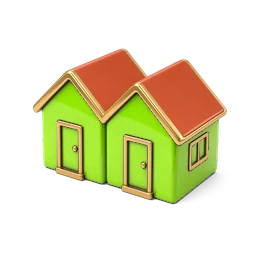
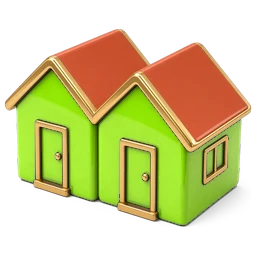
Mosaico Vila R33: falas da pequena sem refazer a conta, moradia só no mercado, voto lado a lado e ícones da meta, do aluguel e de duas cartas
Claude-Session: https://claude.ai/code/session_01WHDQMuMbetW4TJGK2hXLga

diff --git a/mosaico-vila/js/views/aluno.js b/mosaico-vila/js/views/aluno.js
@@ -12,7 +12,7 @@ export function novoLocal() { return { pub: 20, rep: 0, car: 0, lance: 0, face: 
 
 function hd(st, me) {
   const f = me?.fam ? vista(st).fams[me.fam] : null;   // R19: nas cartas dos anos 2 e 4, o caixa de antes das decisões (como a barra)
-  return `<div class="hd">${f ? iconeFamilia(f, 34, { moradia: true }) : ico("app-mosaico-vila", "m")}
+  return `<div class="hd">${f ? iconeFamilia(f, 34) : ico("app-mosaico-vila", "m")}
     <div class="grow"><b>${esc(me?.nome || "Mosaico Vila")}</b><div class="faint" style="font-size:12px">${f ? `${esc(f.nome)} · caixa ${n0(f.caixa)}` : "Mosaico Vila"}</div></div>
     ${st.ano ? `<span class="chip">Ano ${st.ano}</span>` : ""}${st.ano ? miniBarra(st) : ""}</div>`;
 }
@@ -180,7 +180,7 @@ export function renderAluno(st, id, loc) {
           ? `<button class="btn block" data-a="rolar">Pensei. Rolar o dado</button>`
           : `<div class="card" style="text-align:center"><div class="dado">${loc.face}</div><p class="muted">Você acertou o número que pensou?</p><div class="escolha"><button class="btn sec" data-a="mente" data-val="1">Acertei</button><button class="btn sec" data-a="mente" data-val="0">Não acertei</button></div></div>`);
       } else if (c.tipo === "honesto") {
-        bd = cartaCelular(c, "<b>Só você vê esta tela.</b> O banco e a praça são do jogo; os 3 pontos valem no seu placar pessoal, que ninguém mais vê. O telão mostra só o total da turma (se todos fizerem o mesmo, o total diz isso).", "mente", st);
+        bd = cartaCelular(c, "<b>Só você vê esta tela.</b> O banco e a praça são do jogo; os 3 pontos são só seus. O telão mostra só o total da turma (se todos fizerem o mesmo, o total diz isso).", "mente", st);
       } else {
         bd = `<p class="faint" style="margin:0 0 6px">Cada pessoa recebeu uma das 4 situações do telão, sorteada. <b>Não arriscar não custa nada.</b></p>` + cartaCelular(c, "<b>Só você vê esta tela.</b> A outra pessoa é do jogo. Se arriscar, você põe 2; se ela for honesta, ganha 2; se não, perde os 2. Você só descobre no fim do ano, aqui no celular.", "mente", st);
       }
@@ -189,27 +189,27 @@ export function renderAluno(st, id, loc) {
     case "pequena": {
       const c = cartaPequena(st, id);   // R28: a fala sorteada para esta pessoa ("presente em troca de" ou às claras)
       bd = st.pequena.votos[id] != null ? enviado("Resposta secreta enviada.") + palpiteFaixa(st, id, "pequena", "quantos % de quem responder vão aceitar?")
-        : cartaCelular(c, `<b>Responda sem mostrar a tela.</b> Cada resposta vale para quem respondeu; o telão mostra só totais de 5 ou mais pessoas, nunca a resposta de alguém (se todos fizerem o mesmo, o total diz isso). ${esc(c.segmento[0].toUpperCase() + c.segmento.slice(1))} é personagem do jogo; os ${GANHO_PEQUENA} pontos valem no seu placar pessoal, que só você vê.`, "pequena", st);
+        : cartaCelular(c, `<b>Responda sem mostrar a tela.</b> O telão mostra só totais, nunca a resposta de alguém (se todos fizerem o mesmo, o total diz isso). ${esc(c.segmento[0].toUpperCase() + c.segmento.slice(1))} é do jogo; os ${GANHO_PEQUENA} pontos são só seus.`, "pequena", st);
       break;
     }
     case "lances": {
       const p = st.lances?.[st.ano]?.[id];
       const palp = st.palpite?.[st.ano]?.[id];
       if (!p?.lanceEnviado && f.lotes >= tetoLotes(f)) {   // R16: a família já tem a moradia + 1 lote
-        bd = `<h2 class="row">${ico("mercado-lotes", "g")}Mercado de lotes</h2><div class="card"><p class="muted" style="margin:0">A família tem ${f.lotes === 1 ? "1 lote" : `${f.lotes} lotes`} e precisa de ${precisaLotes(f)} para morar. Cada família compra até ter a moradia + 1 lote: <b>vocês ficam de fora deste mercado</b>. O lote de vocês ainda pode render aluguel.</p></div>
+        bd = `<h2 class="row">${ico("mercado-lotes", "g")}Mercado de lotes</h2><div class="card row" style="flex-wrap:nowrap;align-items:flex-start;gap:12px">${iconeFamilia(f, 48, { moradia: true })}<p class="muted" style="margin:0">A família tem ${f.lotes === 1 ? "1 lote" : `${f.lotes} lotes`} e precisa de ${precisaLotes(f)} para morar. Cada família compra até ter a moradia + 1 lote: <b>vocês ficam de fora deste mercado</b>. O lote de vocês ainda pode render aluguel.</p></div>
           <div class="card"><b>Enquanto a turma decide: qual vai ser o lance vencedor?</b><div class="row" style="margin-top:8px">${["até 20", "21 a 40", "mais de 40"].map((v) => `<button class="btn sm ${palp === v ? "on" : "sec"} grow" data-a="palpite" data-val="${v}">${v}</button>`).join("")}</div></div>`;
         break;
       }
       bd = p?.lanceEnviado ? enviado(p.semLote ? "Enviado: não queremos lote este ano." : "Lance enviado.") + `<div class="card"><b>Enquanto a turma decide: qual vai ser o lance vencedor?</b><div class="row" style="margin-top:8px">${["até 20", "21 a 40", "mais de 40"].map((v) => `<button class="btn sm ${palp === v ? "on" : "sec"} grow" data-a="palpite" data-val="${v}">${v}</button>`).join("")}</div></div>` : `<h2 class="row">${ico("mercado-lotes", "g")}Mercado de lotes</h2><p class="muted">Lance fechado. Quanto do caixa da família (${n0(f.caixa)}) oferecer além do mínimo de ${lanceMinimo(st.ano)}? Vale a mediana da família; quem não envia conta como 0%.</p>
         <div class="card"><div class="row" style="justify-content:space-between"><b>Parte do caixa</b><b class="mono">${loc.lance}%</b></div><input type="range" min="0" max="60" step="5" value="${loc.lance}" data-in="lance" data-key="lance">${efeitoLance(st, f, loc)}</div>
-        <p class="faint">A família precisa de ${precisaLotes(f) === 1 ? "1 lote" : `${precisaLotes(f)} lotes`} para morar; tem ${f.lotes}; pode comprar até ter ${tetoLotes(f)}. ${st.regra === "prosperidade" ? "Na Prosperidade, conta metade do que vocês oferecem além do mínimo. " : ""}Quem já levou um lote oferece, no próximo, metade da porcentagem, sobre o caixa que sobrou.</p><button class="btn ok block" data-a="lance">Enviar lance</button>
+        <div class="row" style="flex-wrap:nowrap;align-items:flex-start;gap:12px">${iconeFamilia(f, 48, { moradia: true })}<p class="faint" style="margin:0">A família precisa de ${precisaLotes(f) === 1 ? "1 lote" : `${precisaLotes(f)} lotes`} para morar; tem ${f.lotes}; pode comprar até ter ${tetoLotes(f)}. ${st.regra === "prosperidade" ? "Na Prosperidade, conta metade do que vocês oferecem além do mínimo. " : ""}Quem já levou um lote oferece, no próximo, metade da porcentagem, sobre o caixa que sobrou.</p></div><button class="btn ok block" data-a="lance">Enviar lance</button>
         <button class="btn sec block" data-a="semLote" style="margin-top:8px">Não queremos lote este ano</button><p class="faint" style="margin:4px 0 0">Vale se a maioria da família inteira marcar. Ficar de fora não custa nada. ${st.ano >= 5 ? "No último ano, o lote novo conta só no patrimônio" : "O lote novo conta para moradia e aluguel a partir do próximo ano"}; o lance mínimo é 6 + 2 × o ano.</p>`;
       break;
     }
     case "alvara": {
       const c = carta(st.cartas.grande);
       bd = st.alvara.votos[id] != null ? enviado("Resposta secreta enviada.") + palpiteFaixa(st, id, "alvara", "quantos % de quem responder aceitariam?")
-        : cartaCelular(c, `<b>Responda no seu lugar, longe da família.</b> Vale a resposta de uma pessoa sorteada (sem resposta, vale não); ninguém vai saber quem foi, e o telão mostra só o total (se todos fizerem o mesmo, o total diz isso). ${esc(c.segmento[0].toUpperCase() + c.segmento.slice(1))} é personagem do jogo; os ${GANHO_GRANDE} pontos valem no seu placar pessoal.`, "alvara", st);
+        : cartaCelular(c, `<b>Responda no seu lugar, longe da família.</b> Vale a resposta de uma pessoa sorteada, que ninguém vai saber quem é (sem resposta, vale não). O telão mostra só o total (se todos fizerem o mesmo, o total diz isso). ${esc(c.segmento[0].toUpperCase() + c.segmento.slice(1))} é do jogo; os ${GANHO_GRANDE} pontos são só seus.`, "alvara", st);
       break;
     }
     case "resultado": {
@@ -244,9 +244,9 @@ export function renderAluno(st, id, loc) {
         ${duasMetasCel()}`;   // R19 e R20
       break;
     case "voto":
-      bd = st.voto[id] != null ? enviado("Voto secreto enviado.") + palpiteFaixa(st, id, "voto", "quantos % vão votar para trocar?") : `<h2 class="row">${ico("balanca", "g")}Que regra queremos?</h2><p class="muted"><b>Volte ao seu lugar para votar.</b> Vale para os anos 4 e 5. Voto secreto (o telão mostra só o total; se todos votarem igual, o total diz isso); vence a maioria dos votos, e empate mantém o Monopólio.</p>${controle(st, id)}
-        <button class="opt" data-a="voto" data-val="0"><b>Manter o Monopólio</b><br><span class="faint">${esc(REGRAS_TXT.monopolio.curto)}</span></button>
-        <button class="opt" data-a="voto" data-val="1"><b>Trocar para a Prosperidade</b><br><span class="faint">${esc(REGRAS_TXT.prosperidade.curto)}</span></button>${duasMetasCel()}`;
+      bd = st.voto[id] != null ? enviado("Voto secreto enviado.") + palpiteFaixa(st, id, "voto", "quantos % vão votar para trocar?") : `<h2 class="row">${ico("balanca", "g")}Que regra queremos?</h2><p class="muted"><b>Volte ao seu lugar para votar.</b> Vale para os anos 4 e 5. Voto secreto (o telão mostra só o total; se todos votarem igual, o total diz isso); vence a maioria, e empate mantém o Monopólio.</p>
+        <div class="opcoes-iguais"><button class="opt" data-a="voto" data-val="0"><b>Manter o Monopólio</b><span class="faint">${esc(REGRAS_TXT.monopolio.curto)}</span></button>
+        <button class="opt" data-a="voto" data-val="1"><b>Trocar para a Prosperidade</b><span class="faint">${esc(REGRAS_TXT.prosperidade.curto)}</span></button></div>${controle(st, id)}${duasMetasCel()}`;   // R33: as duas opções lado a lado, logo depois da regra; a conferência vem embaixo
       break;
     case "fechamento": {
       const ja = st.final[id];

diff --git a/mosaico-vila/js/views/telao.js b/mosaico-vila/js/views/telao.js
@@ -168,7 +168,7 @@ export function renderTelao(st) {
         ...(st.regra === "prosperidade" ? ["Na Prosperidade, o que passa do mínimo conta pela metade."] : []), "Cada família, até a moradia + 1 lote."];
       body = topo(st, "Mercado de lotes") + `<div class="lado compacto"><div class="card mapa-card">${mapaVila(st, { menor: true })}</div><div class="col">
         <div class="card row" style="flex-wrap:nowrap;gap:1.2cqw">${ico("mercado-lotes", "g")}<div class="big">${st.ano === 5 ? "Voltem às famílias: " : ""}<b class="mono">${Math.min(3, livres)}</b> lotes à venda · lance mínimo <b class="mono">${lanceMinimo(st.ano)}</b></div></div>
-        ${st.ano === 5 && st.alvara?.aceito ? `<div class="card banner mal"><p class="big" style="margin:0">Proposta grande aceita: a barra já conta o estrago.</p></div>` : ""}
+        ${st.ano === 5 && st.alvara?.aceito && estragoReal(st.alvara.estrago) ? `<div class="card banner mal"><p class="big" style="margin:0">Proposta grande aceita: a barra já conta o estrago.</p></div>` : ""}
         <div class="card"><ol class="regras-lote">${regras.map((t) => `<li>${t}</li>`).join("")}</ol></div>
         </div></div>`;   // R29: no ano 5 com a grande aceita, o telão avisa que a barra já conta o estrago
       break;
@@ -334,7 +334,7 @@ export function paineisResultado(st) {
   if (st.ano >= 4 && st.leilao) {
     const nv = st.leilao.vendidos.length, vl = VALOR_LOTE(st.publico);
     acont.push(fato("lote-alfinete", nv ? `${nv === 1 ? "1 lote vendido" : `${nv} lotes vendidos`}. O maior lance foi <b>${n0(Math.max(...st.leilao.vendidos.map((v) => v.preco)))}</b>, por um lote que vale <b>${vl}</b> no patrimônio (10 + 2 × nível ${st.publico}).` : (st.leilao.semLote?.length || st.leilao.noTeto?.length ? "Nenhum lote vendido: as famílias ficaram de fora, por escolha ou porque já tinham a moradia + 1 lote, ou não tinham caixa para o mínimo." : "Nenhum lote vendido: ninguém tinha caixa para o mínimo.")));
-    if (nv) acont.push(`<p class="rodape">O lance sai do caixa e vai para o banco: o patrimônio da família cai a diferença entre o lance e o valor do lote.</p>`);
+    if (nv) acont.push(`<p class="rodape">O lance sai do caixa e vai para o banco, e o lote entra no patrimônio pelo valor dele: a família ganha ou perde a diferença.</p>`);
     // R16: quem ficou de fora por escolha ou porque já tinha a moradia + 1 lote (só o número, sem nomes)
     const nS = st.leilao.semLote?.length || 0, nT = st.leilao.noTeto?.length || 0;
     const fora = [nS ? (nS === 1 ? `1 família marcou "não queremos lote"` : `${nS} famílias marcaram "não queremos lote"`) : "", nT ? (nT === 1 ? "1 família já tinha a moradia + 1 lote" : `${nT} famílias já tinham a moradia + 1 lote`) : ""].filter(Boolean);
@@ -459,7 +459,7 @@ function perguntasFechamento(st) {
   return [
     H.length >= 3 ? (subiu ? (pouco ? "Quando o aluguel entrou (ano 3), a desigualdade subiu pouco. Quem ganhou com isso, e o que segurou o resto?" : "Quando o aluguel entrou (ano 3), a desigualdade subiu. Quem ganhou com isso, e sem fazer o quê?") : "Quando o aluguel entrou (ano 3), a desigualdade não subiu. O que segurou?") : "A desigualdade entre as famílias cresceu ou caiu? Por quê?",
     `Com o aluguel mordendo, a vila ${st.votoTrocou ? "trocou para a Prosperidade" : "ficou no Monopólio"}. Vocês votaram pelo próprio bolso, pela vila ou pela meta de cada regra?`,
-    `Bolso ou vila também na mata: ${origem} ${st.colapsouAlguma ? (st.colapsou ? "Ela colapsou e não voltou." : mataMin < COLAPSO ? "Ela colapsou e voltou." : "Uma proposta a derrubou abaixo de 30% no meio do ano, e ela voltou.") : `O pior ano chegou a ${pctL(mataMin)}.`} Quem pagou a conta?`,
+    `Bolso ou vila também na mata: ${origem} ${st.colapsouAlguma ? (st.colapsou ? "Ela colapsou e não voltou." : mataMin < COLAPSO ? "Ela colapsou e voltou." : "Uma proposta a derrubou abaixo de 30% no meio do ano, e ela voltou.") : `O pior ano chegou a ${pctL(mataMin)}.`} ${fim < ini || st.colapsouAlguma || pub ? "Quem pagou a conta?" : "O que segurou a mata?"}`,   // R33: com a mata subindo sem estrago, "quem pagou a conta?" não cabia
     pq != null && pg != null
       ? (quase
         ? `Na pequena, ${pq}% aceitaram${semNivel || !fe ? "" : ` (${fe}% do estrago de uma grande)`}; na grande, ${pg}% aceitariam: ${pq === pg ? "o mesmo. Por que o tamanho da proposta não mudou a resposta?" : "quase o mesmo. Por que o tamanho da proposta quase não mudou a resposta?"}`
@@ -481,6 +481,9 @@ function motivosMeta(o) {
   if (o.regra === "prosperidade" ? o.razao < VITORIA.pobreSobreMedia : (o.pp ?? 0) < VITORIA.patrimonioPorPessoa) m.push(regra);
   return m.length ? m : [regra];
 }
+
+// R33: a grande aceita só "já conta" na barra quando tirou alguma coisa (no nível 0 sem pontos, nada se perdeu)
+const estragoReal = (e) => !!e && (e.alvo === "mata" ? (e.mata || 0) > 0.5 : (e.pontos || 0) > 0.5);
 
 // R15: de onde vem cada tema, para a turma (uma linha embaixo do gráfico)
 function teoria(st, k) {
@@ -522,17 +525,19 @@ function apoioPergunta(st, k) {
 // R28: as duas falas da proposta pequena ("presente em troca de" e às claras), por quem respondeu; cada fala só com 5 ou mais respostas
 function falasPequena(st) {
   const ids = Object.keys(st.pequena?.votos || {}), conta = (f) => { const xs = ids.filter((id) => falaDe(st, id) === f); return { n: xs.length, a: xs.filter((id) => st.pequena.votos[id]).length }; };
-  // R32: cada fala só aparece com 10 ou mais respostas, e os extremos em faixa ("90% ou mais"), para quem souber a fala de um colega não descobrir a resposta dele
-  const P = conta("presente"), C = conta("claras"), ok = P.n >= FALA_MIN && C.n >= FALA_MIN;
+  // R33: cada fala só aparece com 10 ou mais respostas e com as duas longe dos extremos (entre 10% e 90%, sem incluir): com uma fala
+  // inteira fazendo o mesmo, o total exato da turma e o número da outra fala entregavam a conta (R32 punha só os extremos em faixa,
+  // e 75% no total com 50% na outra fala davam 10 de 10). Escondida, a comparação não diz qual fala nem de que lado ficou
+  const P = conta("presente"), C = conta("claras"), longe = (x) => x.a / x.n > 0.1 + 1e-9 && x.a / x.n < 0.9 - 1e-9;
+  const ok = P.n >= FALA_MIN && C.n >= FALA_MIN && longe(P) && longe(C);
   // R30: a metade sorteada só mostra efeito da palavra se a diferença passar de duas vezes o erro do sorteio
   // (antes, só até uma pessoa contava como acaso; sem efeito nenhum, diferenças maiores apareciam em quase metade das partidas)
   const p = ok ? (P.a + C.a) / (P.n + C.n) : 0, erro = ok ? Math.sqrt(p * (1 - p) * (1 / P.n + 1 / C.n)) : 0;
-  const faixa = ok && [P, C].some((x) => pctFala(x).faixa);
-  const dif = ok ? Math.abs(P.a / P.n - C.a / C.n) : 0, igual = ok && !faixa && dif < 0.005, acaso = ok && !igual && dif <= 2 * erro + 1e-9;
+  const dif = ok ? Math.abs(P.a / P.n - C.a / C.n) : 0, igual = ok && dif < 0.005, acaso = ok && !igual && dif <= 2 * erro + 1e-9;
   return { P, C, ok, acaso, igual };
 }
 const FALA_MIN = 10;
-function pctFala(x) { const p = pct(x.a, x.n); return p >= 90 ? { txt: "90% ou mais", w: 90, faixa: true } : p <= 10 ? { txt: "10% ou menos", w: 10, faixa: true } : { txt: `${p}%`, w: p, faixa: false }; }
+function pctFala(x) { const p = pct(x.a, x.n); return { txt: `${p}%`, w: p }; }
 const carimbo = (txt = "Corrupção", cls = "") => `<div class="carimbo${cls ? ` ${cls}` : ""}">${esc(txt)}</div>`;
 function barrasFalas(F, grande = false) {
   return `<div class="col falas-barras">${[["“Presente em troca de”", F.P], ["Às claras (“cobra”, “oferece”)", F.C]].map(([rot, x]) => `<div><div class="row" style="justify-content:space-between;flex-wrap:nowrap"><b>${rot}</b><b class="mono">${pctFala(x).txt}</b></div><div class="barra ${grande ? "grande" : ""}"><i style="width:${pctFala(x).w}%;background:#f87171"></i></div></div>`).join("")}</div>`;
@@ -541,7 +546,7 @@ function painelFalas(st) {
   const F = falasPequena(st), c = carta(st.cartas.pequena);
   return `<div class="card col" style="justify-content:safe center;gap:1cqw;min-height:0">${carimbo(c.carimbo || "Corrupção", "md")}
     <p class="big" style="margin:0;font-size:2.15cqw">Metade leu <b>“presente em troca de”</b>; metade, às claras. Mesmos pontos, mesmo estrago: o carimbo é da proposta, não de quem aceitou.</p>
-    ${F.ok ? `${barrasFalas(F, true)}<p class="rodape" style="margin:0">${F.igual ? "Mesmo resultado nas duas falas. Fora do jogo, a palavra muda decisões?" : F.acaso ? "Com tão poucas pessoas, diferença assim é comum por acaso. A palavra muda decisões?" : "Diferença maior que a do acaso, mas é pista, não prova. A palavra mudou a decisão?"}</p>` : `<p class="rodape" style="margin:0">A comparação das duas falas aparece com 10 ou mais respostas em cada uma.</p>`}</div>`;
+    ${F.ok ? `${barrasFalas(F, true)}<p class="rodape" style="margin:0">${F.igual ? "Mesmo resultado nas duas falas. Fora do jogo, a palavra muda decisões?" : F.acaso ? "Com tão poucas pessoas, diferença assim é comum por acaso. A palavra muda decisões?" : "Diferença maior que a do acaso, mas é pista, não prova. A palavra mudou a decisão?"}</p>` : `<p class="rodape" style="margin:0">A comparação das duas falas aparece com 10 ou mais respostas em cada uma e nenhuma perto de todos ou de ninguém, para não entregar respostas.</p>`}</div>`;
 }
 
 // R16: na pergunta 4, as duas propostas lado a lado (mesma base: quem respondeu); na 5, o que guiou a turma

diff --git a/mosaico-vila/js/content/cartas.js b/mosaico-vila/js/content/cartas.js
@@ -31,7 +31,7 @@ export const PEQUENAS = [
     texto: "A serraria oferece 2 pontos pessoais a mais se você vender a madeira sem nota. Sem nota, o imposto da venda não chega ao bem público. Cada pessoa que aceita tira um pedaço do bem público; se a turma inteira aceitar, {efeito}.",
     sim: "Aceitar os 2 e vender sem nota", nao: "Recusar e vender com nota",   // R30: as duas falas dizem o ato no botão
     presente: { texto: "A serraria quer te dar um presente de 2 pontos pessoais, em troca de você vender a madeira sem nota. Sem nota, o imposto da venda não chega ao bem público. Cada pessoa que aceita tira um pedaço do bem público; se a turma inteira aceitar, {efeito}.", sim: "Aceitar o presente e vender sem nota", nao: "Recusar e vender com nota" } },
-  { id: "taxa", segmento: "um funcionário da prefeitura", de: "de um funcionário da prefeitura", lado: "paga", alvo: "publico", icone: "economia", titulo: "A taxa da praça",
+  { id: "taxa", segmento: "um funcionário da prefeitura", de: "de um funcionário da prefeitura", lado: "paga", alvo: "publico", icone: "moeda", titulo: "A taxa da praça",
     telao: "Um funcionário cobra 1 ponto para tirar seu nome da taxa da praça, que custa 3. Saldo: +2 para quem aceita.",
     texto: "Todo mundo paga 3 pontos de taxa para a praça. Um funcionário da prefeitura cobra 1 ponto seu para tirar o seu nome da lista. Saldo: +2 pontos pessoais. Cada pessoa que aceita tira um pedaço do bem público; se a turma inteira aceitar, {efeito}.",
     sim: "Pagar 1 ao funcionário", nao: "Pagar a taxa",
@@ -62,7 +62,7 @@ export const ANO4 = [
     telao: "O banco da vila errou e pôs 3 pontos a mais no seu placar. Ninguém vai conferir. Avisa ou fica?",
     texto: "O banco da vila errou e pôs 3 pontos pessoais a mais no seu placar. Ninguém vai conferir. Você avisa o banco ou fica com os 3?",
     sim: "Ficar com os 3", nao: "Avisar o banco" },
-  { id: "achado", grupo: "honestidade", tipo: "honesto", icone: "economia", titulo: "O achado da praça",
+  { id: "achado", grupo: "honestidade", tipo: "honesto", icone: "cedula", titulo: "O achado da praça",
     telao: "Você acha 3 pontos caídos na praça, sem nome. Entrega no achados e perdidos ou fica?",
     texto: "Você acha 3 pontos caídos na praça, sem nome de ninguém. Entrega no achados e perdidos da vila ou fica com eles?",
     sim: "Ficar com os 3", nao: "Entregar" },

diff --git a/mosaico-vila/css/style.css b/mosaico-vila/css/style.css
@@ -399,3 +399,7 @@ input[type=text], input[type=number], select, textarea { box-shadow: inset 0 3px
 /* R31: as duas respostas de uma carta com o mesmo tamanho (largura e altura), qualquer que seja o texto e a largura do celular */
 .escolha { display: grid; grid-template-columns: 1fr 1fr; gap: 10px; align-items: stretch; }
 .escolha .btn { width: 100%; min-width: 0; height: 100%; }
+
+/* R33: as duas opções do voto lado a lado, com a mesma largura e a mesma altura, qualquer que seja o texto */
+.opcoes-iguais { display: grid; grid-template-columns: 1fr 1fr; align-items: stretch; gap: 10px; margin: 6px 0; }
+.opcoes-iguais .opt { margin: 0; height: 100%; display: flex; flex-direction: column; justify-content: flex-start; gap: 4px; }

diff --git a/mosaico-vila/docs/PROJETO.md b/mosaico-vila/docs/PROJETO.md
@@ -227,3 +227,12 @@ No fim do ano 3, o motor guarda a vila (`snap3`). No fechamento, `contrafactual(
 - `moeda.webp` (moeda dourada) no lugar de `moeda.svg`; `mercado-lotes.webp` (barraca e lotes) no lugar de `lote-sobrado.webp`; `lote-alfinete.webp` (piso de lotes com alfinete) no lugar de `lote-venda.webp`, no mapa, na barra de cima, no painel do mercado e na página inicial. Os anteriores ficaram com o sufixo `_SUBSTITUIDO_2026-11-14`.
 - Mapa: `PREDIO_3D` põe a escola (nível 4) e a casa com sino (nível 5) nas vagas do bem público, com as paredes em creme; os níveis 1 a 3 seguem desenhados até os ícones chegarem (prompts em `ICONES-PROMPTS.md`).
 - `moradiaDe(f)` e `iconeFamilia(f, tam, { moradia: true })`: só no cabeçalho do celular da família, a casa mostra a moradia de agora (cabana, casa, sobrado, geminadas térreas, sobrado com anexo, geminadas). O telão, a tela de achar a família e o painel de quem conduz seguem com a mesma casa para todas.
+
+## R33 (14/11/2026, após os avaliadores EW e EX; a 77ª rodada não passou, mínima 4,0)
+- `falasPequena`: as falas só aparecem com 10 ou mais respostas em cada uma e as duas entre 10% e 90% (sem incluir); sem faixas (R32 punha os extremos em faixa, mas o total exato da turma e o número da outra fala refaziam a conta). Escondida, a comparação diz só que aparece "com 10 ou mais respostas em cada uma e nenhuma perto de todos ou de ninguém".
+- Moradia (`iconeFamilia(f, 48, { moradia: true })`) só nas telas do mercado de lotes, que a família olha junta; o cabeçalho volta à casa igual para todas.
+- Voto: `.opcoes-iguais` põe "Manter" e "Trocar" lado a lado, com a mesma largura e altura, logo depois da regra; a conferência vem embaixo.
+- Avisos do celular mais curtos (pequena, grande e honestidade).
+- Ícones: `meta.webp` (alvo com dardo, do professor), `sobrado.webp` no cinza da casa neutra, `cedula.webp` no achado da praça, moeda na taxa da praça; os anteriores com `_SUBSTITUIDO_2026-11-14`. Recortes refeitos (lotes à venda, mercado, cabana, sobrado e geminadas térreas) com a caixa medida só no que é opaco.
+- Textos de casos raros: "a barra já conta o estrago" só com estrago (`estragoReal`); "Quem pagou a conta?" só quando a mata caiu, colapsou ou perdeu pontos para propostas; mercado: "a família ganha ou perde a diferença".
+- Simulação: versão 47 (`vila_leitura`), com tempo de leitura nas cartas do celular (r69).

diff --git a/mosaico-vila/docs/ICONES-PROMPTS.md b/mosaico-vila/docs/ICONES-PROMPTS.md
@@ -15,6 +15,8 @@
 - **Moradia no celular da própria família** (`moradia-*.webp`): sem lote, a cabana; com o que precisa, a casa (1 lote) ou o sobrado (2); com um lote a mais, as geminadas térreas (precisa de 1) ou o sobrado com anexo (precisa de 2); 3 lotes precisando de 1, as geminadas. As casas são recoloridas na cor de cada família. O telão continua com a mesma casa para todas, para não marcar quem tem herança ou começou sem lote.
 - Ficaram guardados, sem uso no jogo: a capela (o bem público da vila é laico: praça, posto, academia, escola, centro comunitário), a cédula (o jogo usa uma moeda só, de 10 pontos, do começo ao fim) e o "sobrado + casa" (o sobrado com anexo já faz esse papel).
 
+- R33: **meta** com o alvo com dardo enviado pelo professor (`meta.webp`; o anterior, cópia do MOSAICO Sala, em `meta_SUBSTITUIDO_2026-11-14.webp`); **sobrado** do aluguel no cinza-azulado da casa neutra (o azul parecia a Família Azul; anterior em `sobrado_SUBSTITUIDO_2026-11-14.webp`); a **cédula** (`cedula.webp`) entrou na carta *O achado da praça* e a moeda na *A taxa da praça*, no lugar das mãos repetidas. A moradia saiu do cabeçalho do celular e aparece só nas telas do mercado de lotes.
+
 ### Para completar o bem público (mesmo estilo dos níveis 4 e 5)
 Estilo: ícone 3D brilhante, como as casas da vila: paredes creme lisas, acabamento dourado, telhado laranja-terracota, vista isométrica levemente de cima, iluminação suave de estúdio, fundo branco liso, sem texto, 1024 × 1024.
 - `publico-1-praca.webp` · Praça: canteiro redondo de grama com uma árvore pequena, um banco de praça de madeira laranja-terracota com pés dourados e um poste de luz dourado, sobre uma base de pedra creme.
